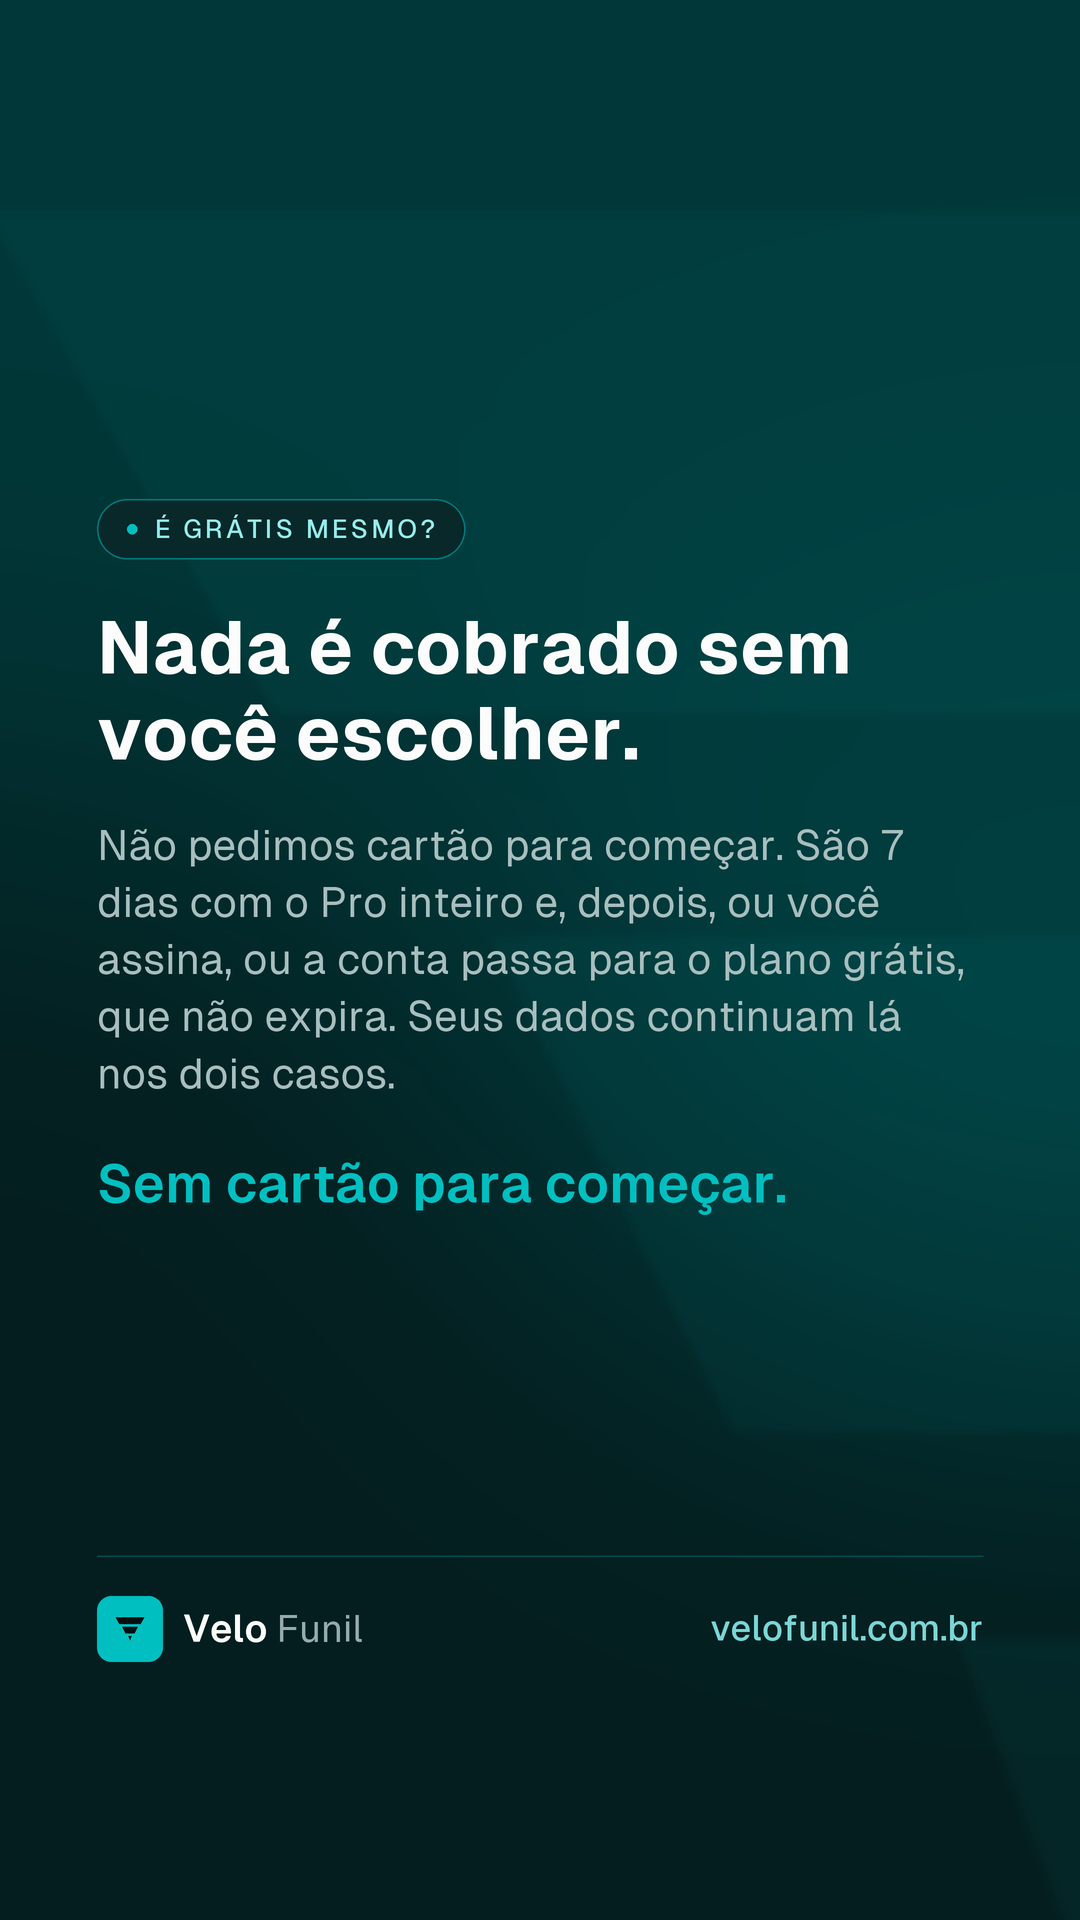
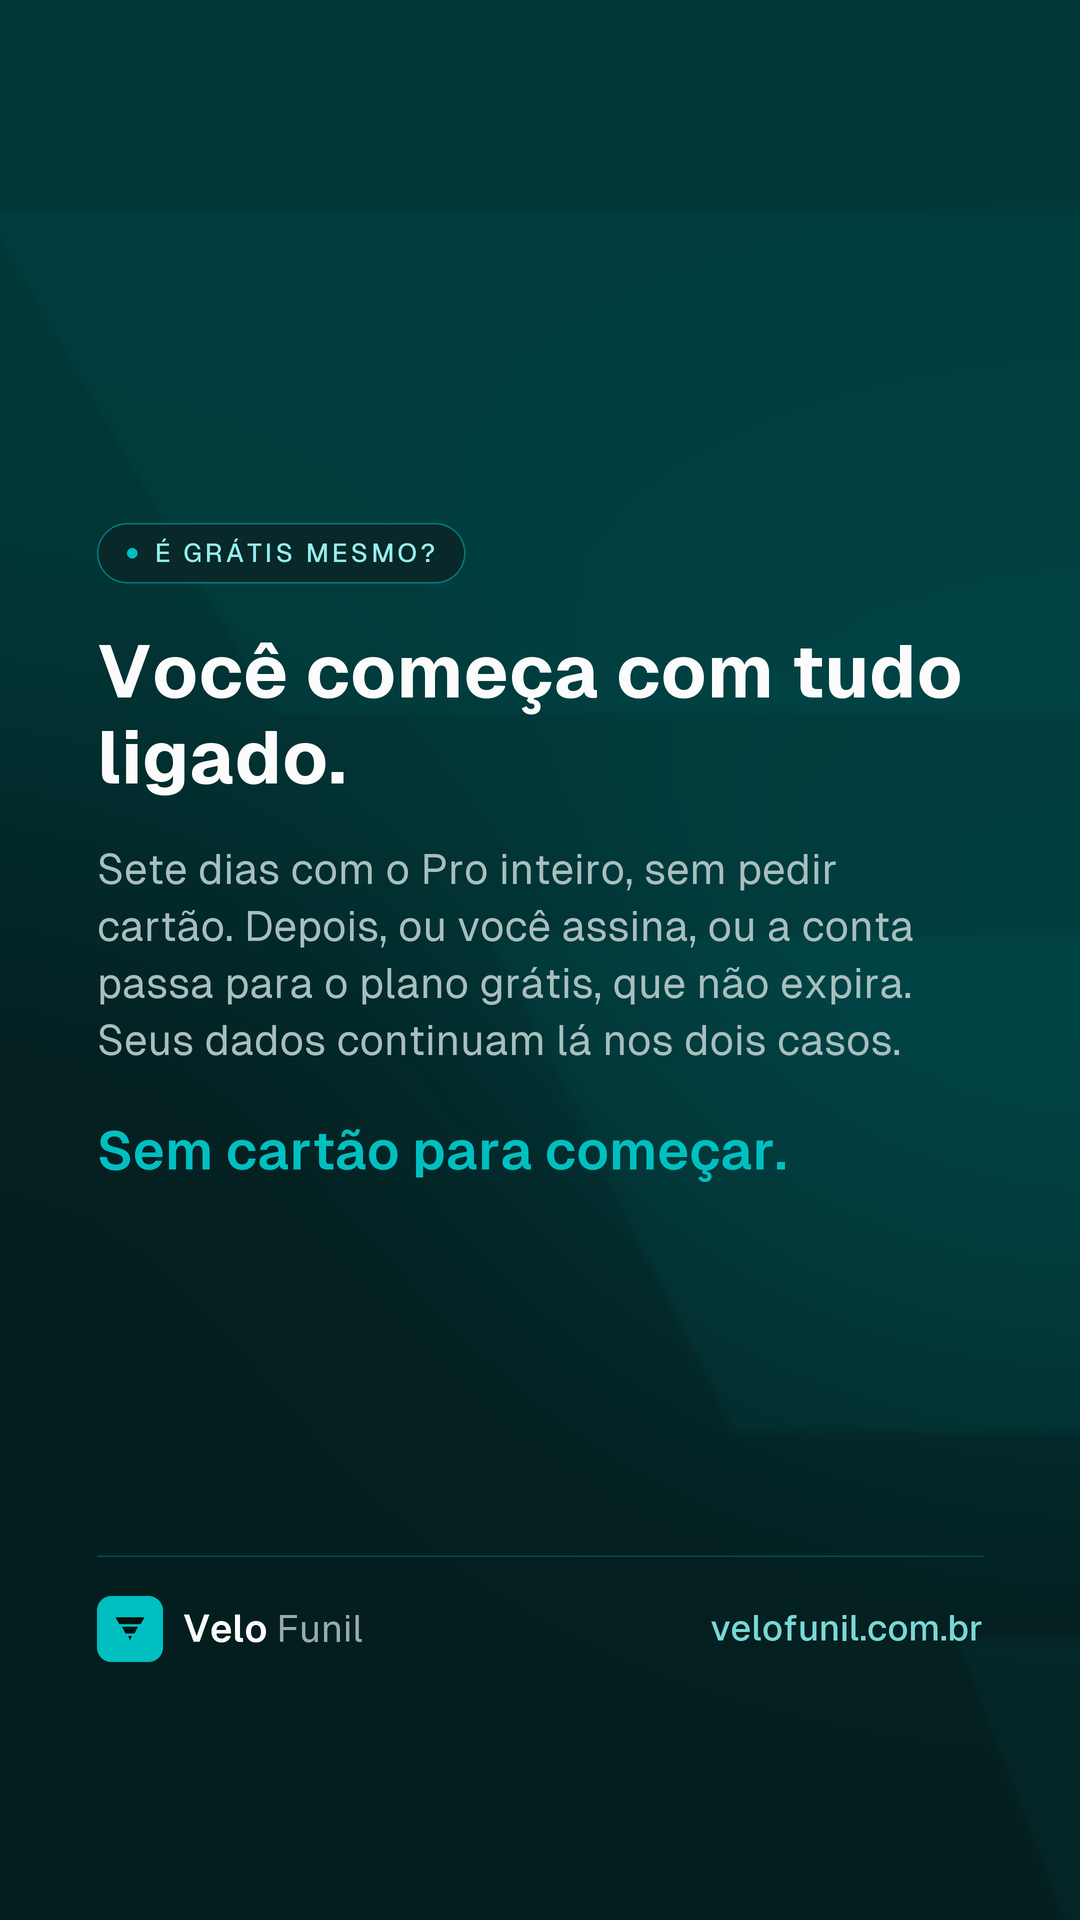
feat(marketing): Perguntas passa a vender pelo ganho, não pela ausência de perda
As cinco manchetes eram negações: "Nada é cobrado", "Não. Abre no navegador",
"Cada empresa só enxerga o que é dela", "Cancele quando quiser". Lidas em
sequência, ensinavam que nada de ruim acontece — e nada de bom. É a armadilha
clássica de FAQ: trata objeção e nunca vende.

A correção não é adjetivo, é trocar o que cada camada carrega. A pergunta na
cápsula continua sendo a objeção, porque é ela que faz alguém abrir o destaque.
A manchete passa a carregar o ganho. O corpo continua com o fato honesto que
remove a objeção.

  Nada é cobrado sem você escolher     ->  Você começa com tudo ligado.
  Não. Abre no navegador.              ->  Abre no celular, onde você já vende.
  Traga sua lista em um arquivo        ->  Sua carteira inteira, num arquivo só
  Cada empresa só enxerga o que é dela ->  Seus clientes ficam com a empresa.
  Cancele quando quiser.               ->  Você sai com tudo o que colocou.

Nenhuma promessa nova entrou. "Você sai com tudo o que colocou" e "Cancele
quando quiser" descrevem exatamente a mesma regra: a primeira diz o que a
pessoa ganha, a segunda o que ela deixa de perder.

## Por que a de segurança mudou de ângulo

A pergunta continua sendo "e a segurança?" e o isolamento entre empresas
continua no corpo. Mas a manchete passou a ser a dor que a pesquisa deste
projeto achou como a mais forte da PME brasileira: o vendedor sai e leva a
carteira junto, porque o histórico mora no celular dele.
[…]

Changed region(s): [[0.0917, 0.25, 0.8861, 0.625]]

diff --git a/scripts/marketing/gerar-stories.py b/scripts/marketing/gerar-stories.py
@@ -980,53 +980,76 @@ def destaque_dicas():
 
 def destaque_perguntas():
     """
-    As objeções que travam a venda, respondidas antes de alguém precisar
-    perguntar.
+    As objeções que travam a venda, respondidas pelo GANHO.
 
-    ## Por que estas cinco, e por que exatamente estas palavras
+    ## O defeito da primeira versão, e ele é de produto, não de texto
 
-    Não foram inventadas aqui: são as perguntas da FAQ da landing
-    (`components/landing/faq-section.tsx`), que já passaram pelo PRD de copy.
-    Repetir a mesma resposta nos dois lugares é o que impede a divergência que
-    este projeto já pagou em outro canal — a bio do Instagram ficou meses
-    vendendo uma oferta que o produto não tinha mais.
+    As cinco manchetes eram negações: "Nada é cobrado", "Não. Abre no
+    navegador", "Cada empresa só enxerga o que é dela", "Cancele quando
+    quiser". Lidas em sequência, ensinavam que **nada de ruim acontece** — e
+    nada de bom. É a armadilha clássica de FAQ: trata objeção e nunca vende.
 
-    A de pagamento ficou de fora de propósito: ela já é a tela 5 do destaque
-    "Planos", e um destaque que repete outro ensina a pular os dois.
+    A correção não é adjetivo. É trocar o que cada CAMADA carrega:
 
-    A ordem é a da desconfiança: primeiro o dinheiro (é grátis mesmo?), depois
-    o esforço (preciso instalar? consigo trazer o que já tenho?), depois o
-    risco (meus dados vazam? consigo sair?). Responder "cancele quando quiser"
-    antes de dizer que não cobra cartão é responder uma pergunta que ninguém
-    fez ainda.
+      a pergunta (cápsula)  continua sendo a objeção, porque é ela que faz
+                            alguém abrir o destaque
+      a manchete            passa a carregar o GANHO, não a ausência de perda
+      o corpo               continua com o fato honesto que remove a objeção
+
+    Nenhuma promessa nova entrou. "Você sai com tudo o que colocou" e "Cancele
+    quando quiser" descrevem exatamente a mesma regra; a primeira diz o que a
+    pessoa ganha, a segunda o que ela deixa de perder.
+
+    ## Por que a de segurança mudou de ângulo
+
+    A pergunta continua sendo "e a segurança?", e o isolamento entre empresas
+    continua no corpo. Mas a manchete passou a ser a dor que a pesquisa deste
+    projeto achou como a mais forte da PME brasileira: **o vendedor sai e leva
+    a carteira junto**, porque o histórico mora no celular dele.
+
+    É verdade conferível no código, não retórica: `activities` pertence ao
+    workspace e guarda `author_id`. A empresa é dona do histórico e sabe quem
+    atendeu, independentemente de quem saiu.
+
+    Esquecer uma venda dói uma vez; perder a carteira não tem conserto. Medo
+    move compra com muito menos objeção de preço do que conveniência.
+
+    ## A ordem, e o arco que ela desenha
+
+    começar -> usar onde você já está -> trazer o que já é seu -> manter o que
+    é seu -> sair com tudo. Cada tela entrega uma coisa a mais, e a última
+    fecha no CTA.
+
+    A de pagamento fica fora de propósito: já é a tela 5 de Planos, e destaque
+    que repete outro ensina a pular os dois.
     """
     abrir_destaque(
         "perguntas", "Perguntas",
-        "As objeções que travam a venda, com a MESMA resposta da FAQ da "
-        "landing. É o destaque que alguém abre quando já gostou e está "
-        "procurando o motivo para não assinar.",
+        "As objeções que travam a venda, respondidas pelo que a pessoa GANHA "
+        "em vez do que ela deixa de perder. É o destaque que alguém abre "
+        "quando já gostou e está procurando o motivo para não assinar.",
     )
 
     tela_declaracao(
         "É grátis mesmo?",
-        "Nada é cobrado sem você escolher.",
-        "Não pedimos cartão para começar. São 7 dias com o Pro inteiro e, "
-        "depois, ou você assina, ou a conta passa para o plano grátis, que "
-        "não expira. Seus dados continuam lá nos dois casos.",
+        "Você começa com tudo ligado.",
+        "Sete dias com o Pro inteiro, sem pedir cartão. Depois, ou você "
+        "assina, ou a conta passa para o plano grátis, que não expira. Seus "
+        "dados continuam lá nos dois casos.",
         "perguntas-1-gratis", destaque="Sem cartão para começar.", tam=74,
     )
 
     tela_declaracao(
         "Preciso instalar?",
-        "Não. Abre no navegador.",
-        "Funciona no computador e no celular, sem baixar nada e sem instalar "
-        "nada. Você cria a conta e já começa a usar.",
-        "perguntas-2-instalar", tam=76,
+        "Abre no celular, onde você já vende.",
+        "Nada para baixar e nada para instalar. Você cria a conta e, no mesmo "
+        "minuto, já cadastra o primeiro cliente.",
+        "perguntas-2-instalar", tam=64,
     )
 
     tela_lista(
         "E o que eu já tenho?",
-        "Traga sua lista em um arquivo",
+        "Sua carteira inteira, num arquivo só",
         [
             ("Exporte sua planilha como .csv", ".csv"),
             ("Colunas: Nome, Telefone, E-mail e Valor", "Nome, Telefone, E-mail e Valor"),
@@ -1038,20 +1061,20 @@ def destaque_perguntas():
 
     tela_declaracao(
         "E a segurança?",
-        "Cada empresa só enxerga o que é dela.",
-        "É regra no banco de dados, não uma tela que alguém pode esquecer de "
-        "conferir. Nem por engano, nem por querer, o dado de uma empresa "
-        "aparece para outra.",
-        "perguntas-4-isolamento", tam=70,
+        "Seus clientes ficam com a empresa.",
+        "O histórico fica na conta, não no aparelho de quem atendeu. E cada "
+        "empresa só enxerga os próprios dados, por regra no banco, não por "
+        "tela que alguém pode esquecer de conferir.",
+        "perguntas-4-isolamento", tam=68,
     )
 
     tela_declaracao(
         "E se eu quiser sair?",
-        "Cancele quando quiser.",
-        "Sem multa e sem falar com ninguém. A conta volta para o plano grátis "
-        "e seus dados continuam lá.",
+        "Você sai com tudo o que colocou.",
+        "Sem multa e sem falar com ninguém. A conta volta para o plano "
+        "grátis, e contatos, negócios e histórico continuam lá.",
         "perguntas-5-cancelar",
-        destaque="7 dias com tudo liberado, sem cartão.", tam=78,
+        destaque="7 dias com tudo liberado, sem cartão.", tam=72,
     )
 
 
